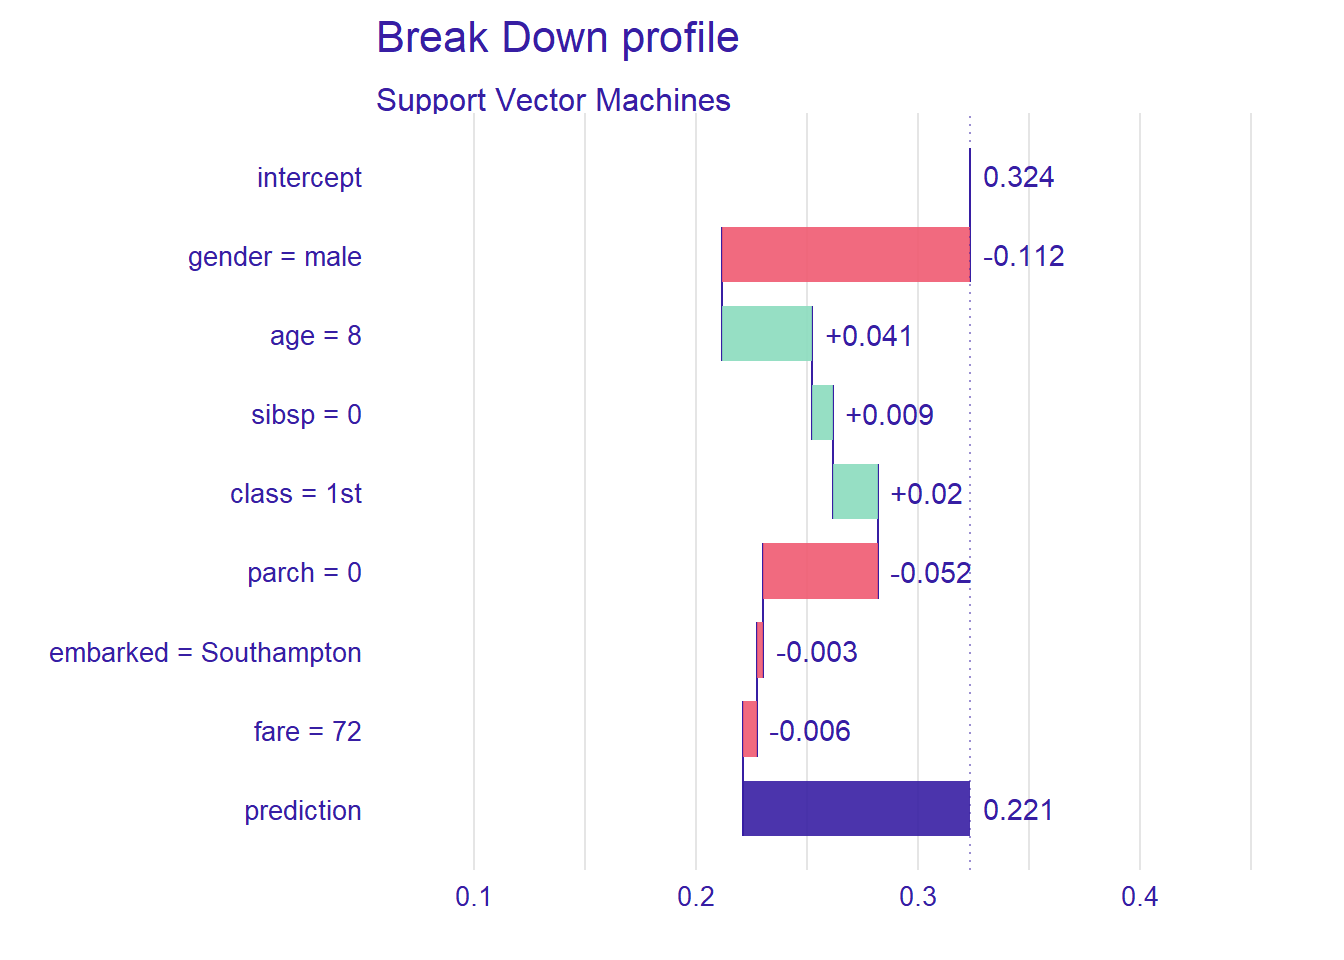
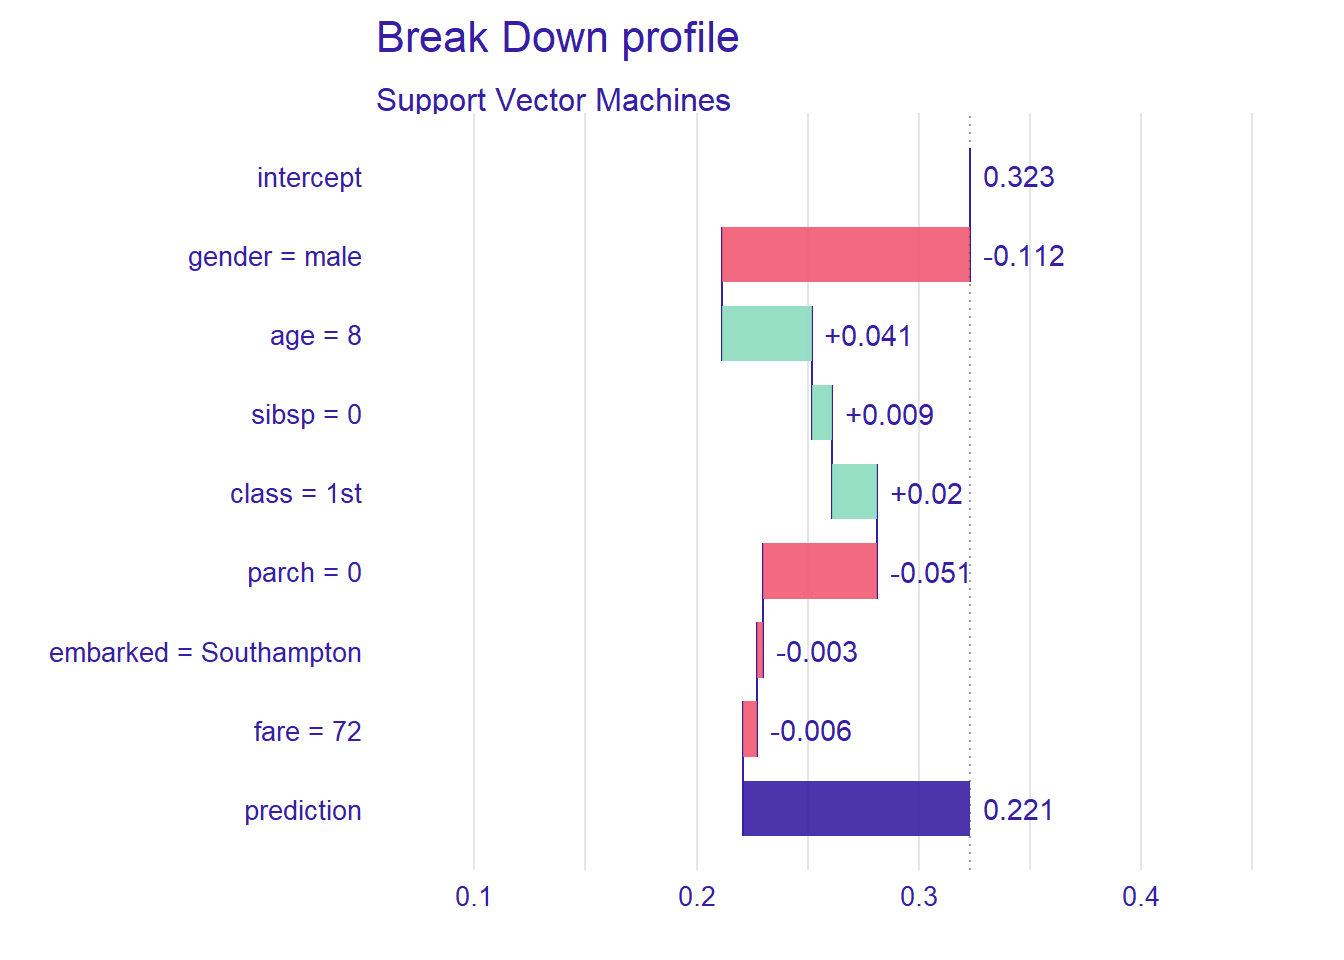
.

diff --git a/_site/r/2023/10/10-08-survival-learning/index.html b/_site/r/2023/10/10-08-survival-learning/index.html
@@ -149,7 +149,7 @@ pre > code.sourceCode > span > a:first-child::before { text-decoration: underlin
  <span class="menu-text">link</span></a>
   </li>  
   <li class="nav-item compact">
-    <a class="nav-link" href="https://github.com/xxxxx" rel="" target=""><i class="bi bi-github" role="img">
+    <a class="nav-link" href="https://github.com/residualsun1" rel="" target=""><i class="bi bi-github" role="img">
 </i> 
  <span class="menu-text"></span></a>
   </li>  
@@ -160,6 +160,11 @@ pre > code.sourceCode > span > a:first-child::before { text-decoration: underlin
   </li>  
 </ul>
             <div class="quarto-navbar-tools">
+  <a href="" class="quarto-reader-toggle quarto-navigation-tool px-1" onclick="window.quartoToggleReader(); return false;" title="Toggle reader mode">
+  <div class="quarto-reader-toggle-btn">
+  <i class="bi"></i>
+  </div>
+</a>
 </div>
           </div> <!-- /navcollapse -->
       </div> <!-- /container-fluid -->
@@ -321,7 +326,7 @@ Mtry:                             2
 Target node size:                 1 
 Variable importance mode:         none 
 Splitrule:                        gini 
-OOB prediction error:             19.44 % </code></pre>
+OOB prediction error:             19.26 % </code></pre>
 </div>
 </div>
 <p><code>model_titanic_rf</code>即我们创建的一个随机森林模型（random forest model）</p>
@@ -344,9 +349,9 @@ OOB prediction error:             19.44 % </code></pre>
   -&gt; predict function  :  yhat.ranger  will be used (  default  )
   -&gt; predicted values  :  No value for predict function target column. (  default  )
   -&gt; model_info        :  package ranger , ver. 0.15.1 , task classification (  default  ) 
-  -&gt; predicted values  :  numerical, min =  0 , mean =  0.2079746 , max =  1  
+  -&gt; predicted values  :  numerical, min =  0 , mean =  0.2043498 , max =  1  
   -&gt; residual function :  difference between y and yhat (  default  )
-  -&gt; residuals         :  numerical, min =  -1 , mean =  0.1155415 , max =  1  
+  -&gt; residuals         :  numerical, min =  -1 , mean =  0.1169008 , max =  1  
   A new explainer has been created!  </code></pre>
 </div>
 </div>
@@ -359,12 +364,12 @@ OOB prediction error:             19.44 % </code></pre>
 <span id="cb11-2"><a href="#cb11-2" aria-hidden="true" tabindex="-1"></a><span class="fu">head</span>(vi_rf)</span></code><button title="Copy to Clipboard" class="code-copy-button"><i class="bi"></i></button></pre></div>
 <div class="cell-output cell-output-stdout">
 <pre><code>      variable mean_dropout_loss            label
-1 _full_model_         0.2155270 Random Forest v7
-2     survived         0.2152929 Random Forest v7
-3        sibsp         0.2324963 Random Forest v7
-4        parch         0.2329015 Random Forest v7
-5     embarked         0.2387845 Random Forest v7
-6         fare         0.2616076 Random Forest v7</code></pre>
+1 _full_model_         0.2223746 Random Forest v7
+2     survived         0.2216068 Random Forest v7
+3        parch         0.2356221 Random Forest v7
+4        sibsp         0.2374335 Random Forest v7
+5     embarked         0.2417836 Random Forest v7
+6         fare         0.2632125 Random Forest v7</code></pre>
 </div>
 </div>
 <div class="cell">
@@ -388,47 +393,47 @@ OOB prediction error:             19.44 % </code></pre>
 <div class="cell-output cell-output-stdout">
 <pre><code>$cp_profiles
 Top profiles    : 
-       gender        age class    embarked fare sibsp parch survived _yhat_
-1247     male  0.1666667   1st Southampton   34     0     0        0      1
-1247.1   male  2.0000000   1st Southampton   34     0     0        0      1
-1247.2   male  4.0000000   1st Southampton   34     0     0        0      1
-1247.3   male  7.0000000   1st Southampton   34     0     0        0      0
-1247.4   male  9.0000000   1st Southampton   34     0     0        0      0
-1247.5   male 13.0000000   1st Southampton   34     0     0        0      0
-       _vname_ _ids_          _label_
-1247       age  1247 Random Forest v7
-1247.1     age  1247 Random Forest v7
-1247.2     age  1247 Random Forest v7
-1247.3     age  1247 Random Forest v7
-1247.4     age  1247 Random Forest v7
-1247.5     age  1247 Random Forest v7
+       gender        age            class embarked fare sibsp parch survived
+1444     male  0.1666667 victualling crew  Belfast    0     0     0        1
+1444.1   male  2.0000000 victualling crew  Belfast    0     0     0        1
+1444.2   male  4.0000000 victualling crew  Belfast    0     0     0        1
+1444.3   male  7.0000000 victualling crew  Belfast    0     0     0        1
+1444.4   male  9.0000000 victualling crew  Belfast    0     0     0        1
+1444.5   male 13.0000000 victualling crew  Belfast    0     0     0        1
+       _yhat_ _vname_ _ids_          _label_
+1444        0     age  1444 Random Forest v7
+1444.1      0     age  1444 Random Forest v7
+1444.2      0     age  1444 Random Forest v7
+1444.3      0     age  1444 Random Forest v7
+1444.4      0     age  1444 Random Forest v7
+1444.5      0     age  1444 Random Forest v7
 
 
 Top observations:
-     gender age            class    embarked    fare sibsp parch survived
-1247   male  48              1st Southampton 34.0000     0     0        0
-943    male  30              1st     Belfast 89.0000     0     0        0
-535    male  30              3rd Southampton  7.1711     0     0        0
-1926   male  31 victualling crew Southampton  0.0000     0     0        0
-981  female  32              2nd Southampton 13.0000     0     0        1
-552  female  22              3rd Southampton 12.0509     1     1        1
+     gender age            class    embarked     fare sibsp parch survived
+1444   male  31 victualling crew     Belfast   0.0000     0     0        1
+2121   male  29 victualling crew     Belfast   0.0000     0     0        1
+553  female  20              2nd Southampton  23.0000     2     1        1
+911  female  31              3rd Southampton   7.1701     0     0        0
+713  female  27              1st   Cherbourg 106.0806     0     0        1
+171  female  17              3rd  Queenstown   7.1707     0     0        0
      _yhat_          _label_ _ids_
-1247      0 Random Forest v7     1
-943       0 Random Forest v7     2
-535       0 Random Forest v7     3
-1926      0 Random Forest v7     4
-981       1 Random Forest v7     5
-552       1 Random Forest v7     6
+1444      0 Random Forest v7     1
+2121      0 Random Forest v7     2
+553       1 Random Forest v7     3
+911       0 Random Forest v7     4
+713       1 Random Forest v7     5
+171       1 Random Forest v7     6
 
 $agr_profiles
 Top profiles    : 
   _vname_          _label_        _x_ _yhat_ _ids_
-1     age Random Forest v7  0.1666667   0.55     0
-2     age Random Forest v7  2.0000000   0.64     0
-3     age Random Forest v7  4.0000000   0.66     0
-4     age Random Forest v7  7.0000000   0.54     0
-5     age Random Forest v7  9.0000000   0.53     0
-6     age Random Forest v7 13.0000000   0.30     0
+1     age Random Forest v7  0.1666667   0.47     0
+2     age Random Forest v7  2.0000000   0.57     0
+3     age Random Forest v7  4.0000000   0.58     0
+4     age Random Forest v7  7.0000000   0.46     0
+5     age Random Forest v7  9.0000000   0.41     0
+6     age Random Forest v7 13.0000000   0.28     0
 
 $color
 [1] "#4378bf"</code></pre>
@@ -576,9 +581,9 @@ Attaching package: 'Hmisc'</code></pre>
   -&gt; predict function  :  function(m, x) predict(m, x, n.trees = 15000, type = "response") 
   -&gt; predicted values  :  No value for predict function target column. (  default  )
   -&gt; model_info        :  package gbm , ver. 2.1.8.1 , task classification (  default  ) 
-  -&gt; predicted values  :  numerical, min =  0.0004344323 , mean =  0.3237439 , max =  0.9985729  
+  -&gt; predicted values  :  numerical, min =  0.0004616668 , mean =  0.3203377 , max =  0.9988087  
   -&gt; residual function :  difference between y and yhat (  default  )
-  -&gt; residuals         :  numerical, min =  -0.9717102 , mean =  -0.001587121 , max =  0.9936794  
+  -&gt; residuals         :  numerical, min =  -0.9672889 , mean =  0.001819063 , max =  0.9920907  
   A new explainer has been created!  </code></pre>
 </div>
 </div>
@@ -610,9 +615,9 @@ Attaching package: 'e1071'</code></pre>
   -&gt; predict function  :  yhat.svm  will be used (  default  )
   -&gt; predicted values  :  No value for predict function target column. (  default  )
   -&gt; model_info        :  package e1071 , ver. 1.7.13 , task classification (  default  ) 
-  -&gt; predicted values  :  numerical, min =  0.08809287 , mean =  0.3236259 , max =  0.9621217  
+  -&gt; predicted values  :  numerical, min =  0.0885337 , mean =  0.3231199 , max =  0.9611676  
   -&gt; residual function :  difference between y and yhat (  default  )
-  -&gt; residuals         :  numerical, min =  -0.8648811 , mean =  -0.001469105 , max =  0.9119071  
+  -&gt; residuals         :  numerical, min =  -0.8627501 , mean =  -0.0009631668 , max =  0.9114663  
   A new explainer has been created!  </code></pre>
 </div>
 </div>
@@ -723,7 +728,7 @@ Attaching package: 'e1071'</code></pre>
 
 </section>
 
-</main> <!-- /main -->
+<a onclick="window.scrollTo(0, 0); return false;" role="button" id="quarto-back-to-top"><i class="bi bi-arrow-up"></i> Back to top</a></main> <!-- /main -->
 <script id="quarto-html-after-body" type="application/javascript">
 window.document.addEventListener("DOMContentLoaded", function (event) {
   const toggleBodyColorMode = (bsSheetEl) => {

diff --git a/_site/posts/en/2023/09/09-25-wonderful-night-in-xiamen/index.html b/_site/posts/en/2023/09/09-25-wonderful-night-in-xiamen/index.html
@@ -116,7 +116,7 @@ ul.task-list li input[type="checkbox"] {
  <span class="menu-text">link</span></a>
   </li>  
   <li class="nav-item compact">
-    <a class="nav-link" href="https://github.com/xxxxx" rel="" target=""><i class="bi bi-github" role="img">
+    <a class="nav-link" href="https://github.com/residualsun1" rel="" target=""><i class="bi bi-github" role="img">
 </i> 
  <span class="menu-text"></span></a>
   </li>  
@@ -127,6 +127,11 @@ ul.task-list li input[type="checkbox"] {
   </li>  
 </ul>
             <div class="quarto-navbar-tools">
+  <a href="" class="quarto-reader-toggle quarto-navigation-tool px-1" onclick="window.quartoToggleReader(); return false;" title="Toggle reader mode">
+  <div class="quarto-reader-toggle-btn">
+  <i class="bi"></i>
+  </div>
+</a>
 </div>
           </div> <!-- /navcollapse -->
       </div> <!-- /container-fluid -->
@@ -205,7 +210,7 @@ ul.task-list li input[type="checkbox"] {
 
 
 
-</main> <!-- /main -->
+<a onclick="window.scrollTo(0, 0); return false;" role="button" id="quarto-back-to-top"><i class="bi bi-arrow-up"></i> Back to top</a></main> <!-- /main -->
 <script id="quarto-html-after-body" type="application/javascript">
 window.document.addEventListener("DOMContentLoaded", function (event) {
   const toggleBodyColorMode = (bsSheetEl) => {

diff --git a/_site/posts/en/index.html b/_site/posts/en/index.html
@@ -157,6 +157,11 @@ ul.task-list li input[type="checkbox"] {
   </li>  
 </ul>
             <div class="quarto-navbar-tools">
+  <a href="" class="quarto-reader-toggle quarto-navigation-tool px-1" onclick="window.quartoToggleReader(); return false;" title="Toggle reader mode">
+  <div class="quarto-reader-toggle-btn">
+  <i class="bi"></i>
+  </div>
+</a>
 </div>
           </div> <!-- /navcollapse -->
       </div> <!-- /container-fluid -->
@@ -445,7 +450,7 @@ No matching items
 
 </section>
 
-</main> <!-- /main -->
+<a onclick="window.scrollTo(0, 0); return false;" role="button" id="quarto-back-to-top"><i class="bi bi-arrow-up"></i> Back to top</a></main> <!-- /main -->
 <script id="quarto-html-after-body" type="application/javascript">
 window.document.addEventListener("DOMContentLoaded", function (event) {
   const toggleBodyColorMode = (bsSheetEl) => {

diff --git a/_site/r/index.html b/_site/r/index.html
@@ -157,6 +157,11 @@ ul.task-list li input[type="checkbox"] {
   </li>  
 </ul>
             <div class="quarto-navbar-tools">
+  <a href="" class="quarto-reader-toggle quarto-navigation-tool px-1" onclick="window.quartoToggleReader(); return false;" title="Toggle reader mode">
+  <div class="quarto-reader-toggle-btn">
+  <i class="bi"></i>
+  </div>
+</a>
 </div>
           </div> <!-- /navcollapse -->
       </div> <!-- /container-fluid -->
@@ -253,7 +258,7 @@ No matching items
 
 
 
-</main> <!-- /main -->
+<a onclick="window.scrollTo(0, 0); return false;" role="button" id="quarto-back-to-top"><i class="bi bi-arrow-up"></i> Back to top</a></main> <!-- /main -->
 <script id="quarto-html-after-body" type="application/javascript">
 window.document.addEventListener("DOMContentLoaded", function (event) {
   const toggleBodyColorMode = (bsSheetEl) => {
